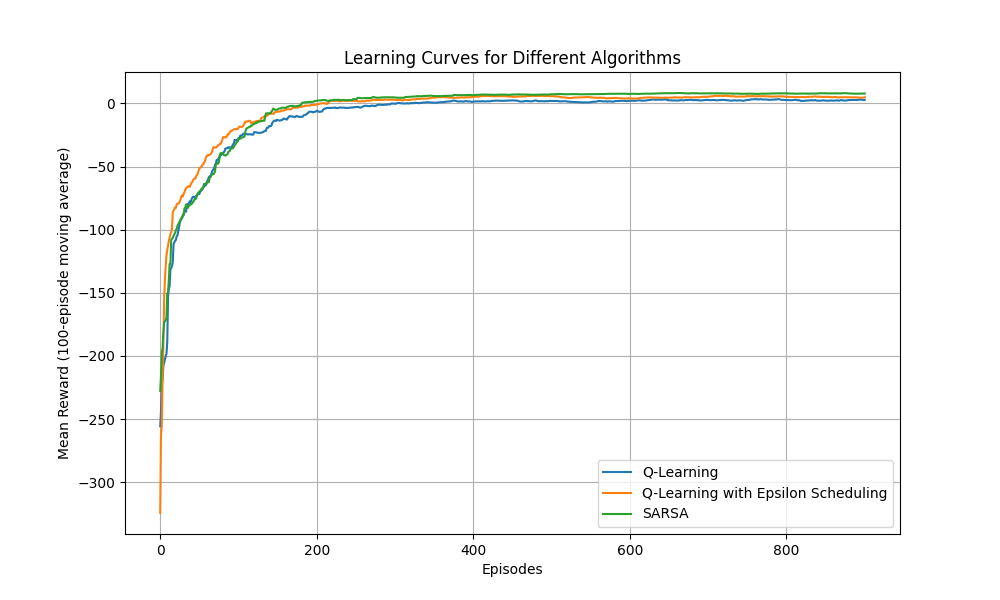
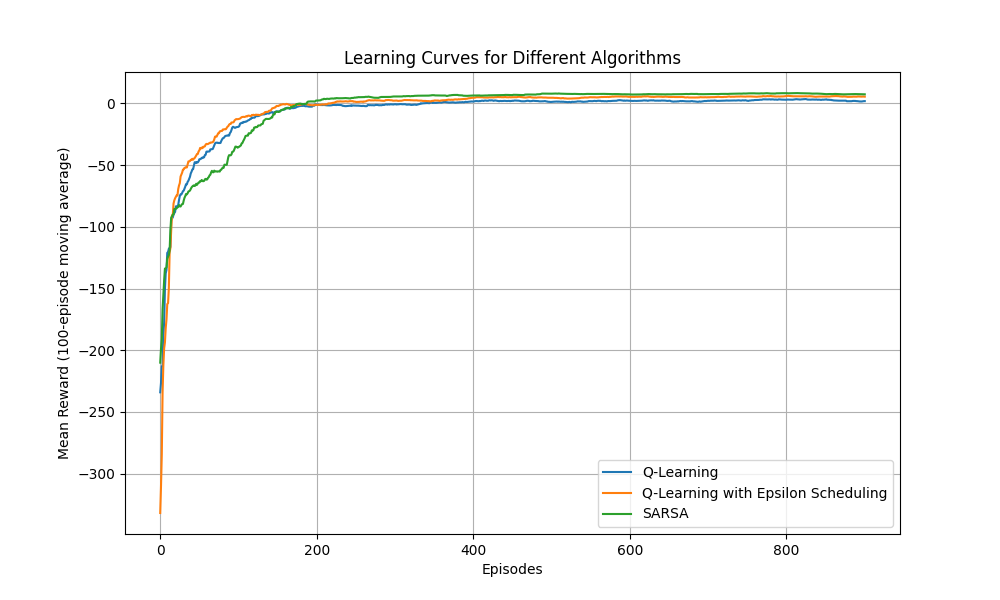
fix: gamma grid search

Changed region(s): [[0.062, 0.15, 0.899, 0.72], [0.062, 0.75, 0.589, 0.81], [0.093, 0.66, 0.124, 0.72]]

diff --git a/taxi.py b/taxi.py
@@ -65,52 +65,62 @@ def play_and_train(env: gym.Env, agent: QLearningAgent, t_max=int(1e4)) -> float
 def grid_search(env, agent_type):
 
     learning_rates = [0.1, 0.2, 0.3, 0.4, 0.5, 0.6, 0.7, 0.8, 0.9]
+    gammas = [0.71, 0.73, 0.76, 0.79, 0.81, 0.83, 0.86, 0.89, 0.91, 0.93, 0.96, 0.99]
     epsilons = [0.1, 0.2, 0.3, 0.4, 0.5, 0.6, 0.7, 0.8, 0.9]
-    results = np.zeros((9, 9))
+    results = np.zeros((len(learning_rates), len(epsilons), len(gammas)))
 
     best_reward = float('-inf')
     best_lr = 0
     best_epsilon = 0
+    best_gamma = 0
 
-    grid_search_iter = 200
+    grid_search_iter = 250
 
     for i, lr in enumerate(learning_rates):
         for j, eps in enumerate(epsilons):
-            agent = agent_type(
-                learning_rate=lr, epsilon=eps, gamma=0.99, legal_actions=list(range(n_actions))
-            )
-            
-            rewards_qlearning = []
-            for _ in range(grid_search_iter):
-                rewards_qlearning.append(play_and_train(env, agent))
-            
-            mean_reward = np.mean(rewards_qlearning[-100:])
-            results[i, j] = mean_reward
-            print(f"LR: {lr}, Epsilon: {eps}, Mean reward: {mean_reward}")
-            
-            if mean_reward > best_reward:
-                best_reward = mean_reward
-                best_lr = lr
-                best_epsilon = eps
+            for k, gamma in enumerate(gammas):
+                agent = agent_type(
+                    learning_rate=lr, epsilon=eps, gamma=gamma, legal_actions=list(range(n_actions))
+                )
+                
+                rewards_qlearning = []
+                for _ in range(grid_search_iter):
+                    rewards_qlearning.append(play_and_train(env, agent))
+                
+                mean_reward = np.mean(rewards_qlearning[-100:])
+                results[i, j, k] = mean_reward
+                print(f"LR: {lr}, Epsilon: {eps}, Gamma: {gamma}, Mean reward: {mean_reward}")
+                
+                if mean_reward > best_reward:
+                    best_reward = mean_reward
+                    best_lr = lr
+                    best_epsilon = eps
+                    best_gamma = gamma
 
     # Plot the results
-    plt.figure(figsize=(12, 10))
-    sns.heatmap(results, annot=True, fmt='.2f', xticklabels=np.round(epsilons, 2), yticklabels=np.round(learning_rates, 2))
-    plt.xlabel('Epsilon')
-    plt.ylabel('Learning Rate')
-    plt.title('Grid Search Results: Mean Reward for ' + str(grid_search_iter) + ' episodes')
+    fig, axes = plt.subplots(3, 4, figsize=(20, 15))
+    fig.suptitle('Grid Search Results: Mean Reward for ' + str(grid_search_iter) + ' episodes')
+    
+    for k, gamma in enumerate(gammas):
+        ax = axes[k // 4, k % 4]
+        sns.heatmap(results[:, :, k], annot=False, fmt='.2f', xticklabels=np.round(epsilons, 2), yticklabels=np.round(learning_rates, 2), ax=ax)
+        ax.set_xlabel('Epsilon')
+        ax.set_ylabel('Learning Rate')
+        ax.set_title(f'Gamma = {gamma:.2f}')
+    
+    plt.tight_layout()
     plt.savefig('grid_search_results_' + agent_type.__name__ + '.png')
     plt.close()
 
-    print(f"Best hyperparameters: Learning Rate = {best_lr:.2f}, Epsilon = {best_epsilon:.2f}")
+    print(f"Best hyperparameters: Learning Rate = {best_lr:.2f}, Epsilon = {best_epsilon:.2f}, Gamma = {best_gamma:.2f}")
     print(f"Best mean reward: {best_reward:.2f}")
     
-    return best_lr, best_epsilon
+    return best_lr, best_epsilon, best_gamma
 
 # Use the best hyperparameters for the final agent
-best_lr, best_epsilon = grid_search(env, QLearningAgent)
+best_lr, best_epsilon, best_gamma = grid_search(env, QLearningAgent)
 agent = QLearningAgent(
-    learning_rate=best_lr, epsilon=best_epsilon, gamma=0.99, legal_actions=list(range(n_actions))
+    learning_rate=best_lr, epsilon=best_epsilon, gamma=best_gamma, legal_actions=list(range(n_actions))
 )
 
 rewards_qlearning = []
@@ -138,7 +148,7 @@ print("qlearning done")
 
 # Use the best hyperparameters for the final agent
 agent = QLearningAgentEpsScheduling(
-    learning_rate=best_lr, epsilon=best_epsilon, gamma=0.99, legal_actions=list(range(n_actions))
+    learning_rate=best_lr, epsilon=best_epsilon, gamma=best_gamma, legal_actions=list(range(n_actions))
 )
 
 rewards_qlearning_eps = []
